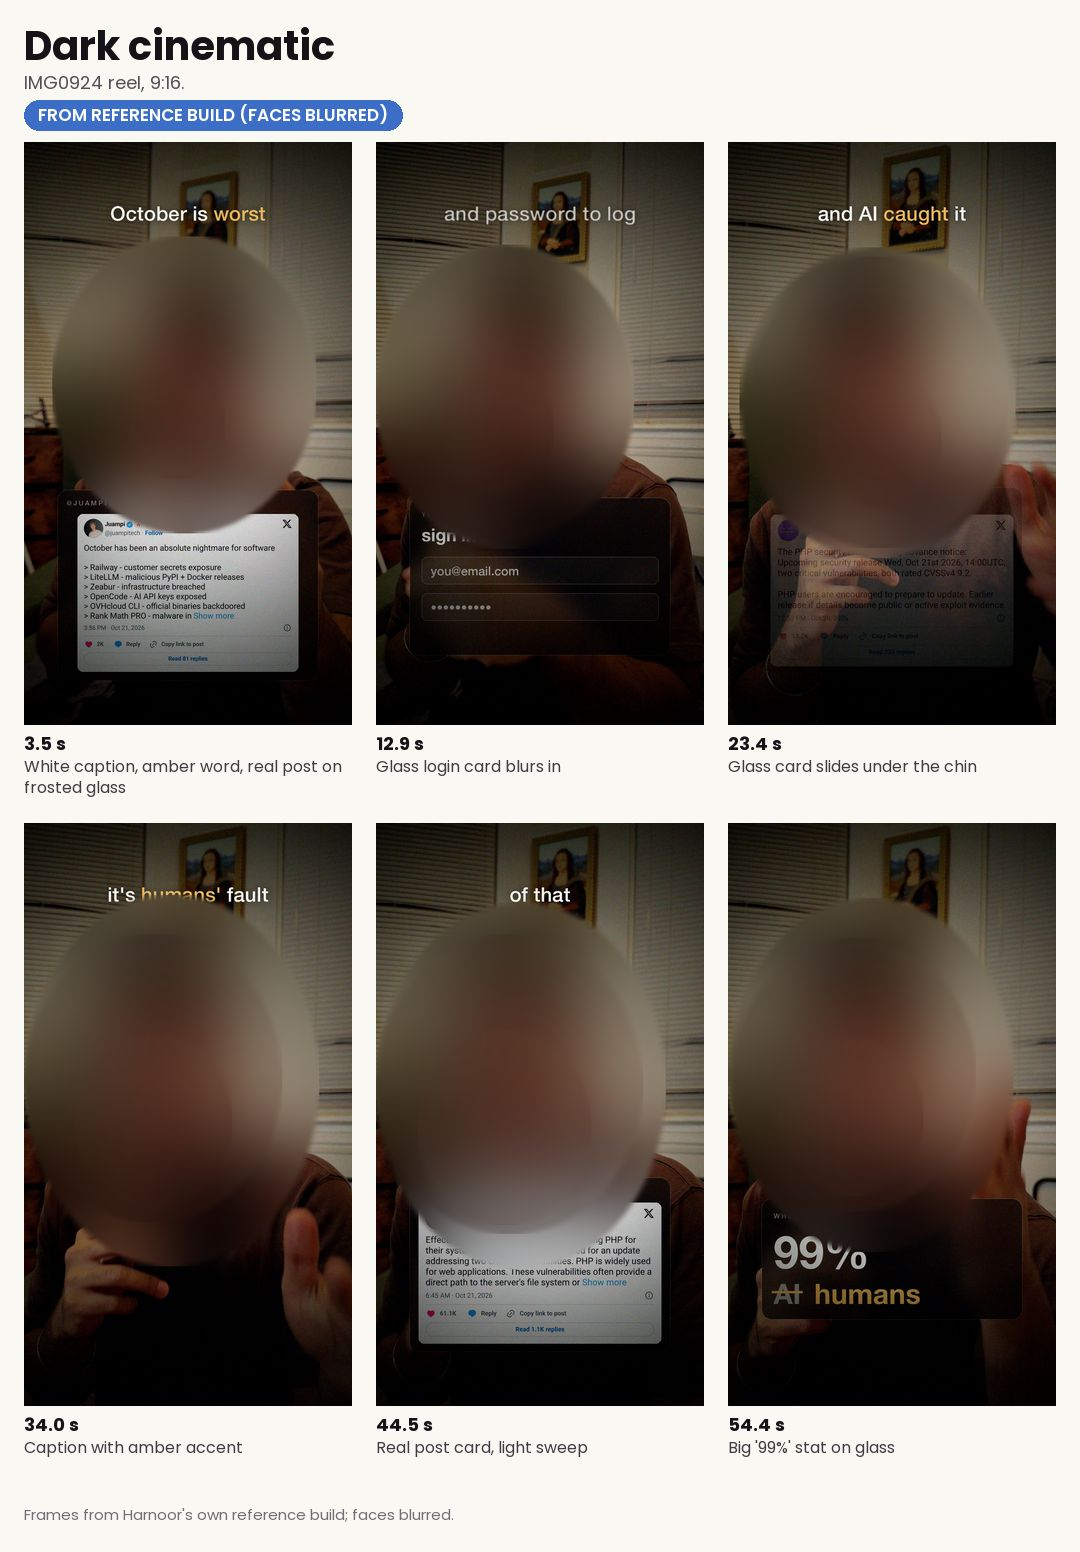
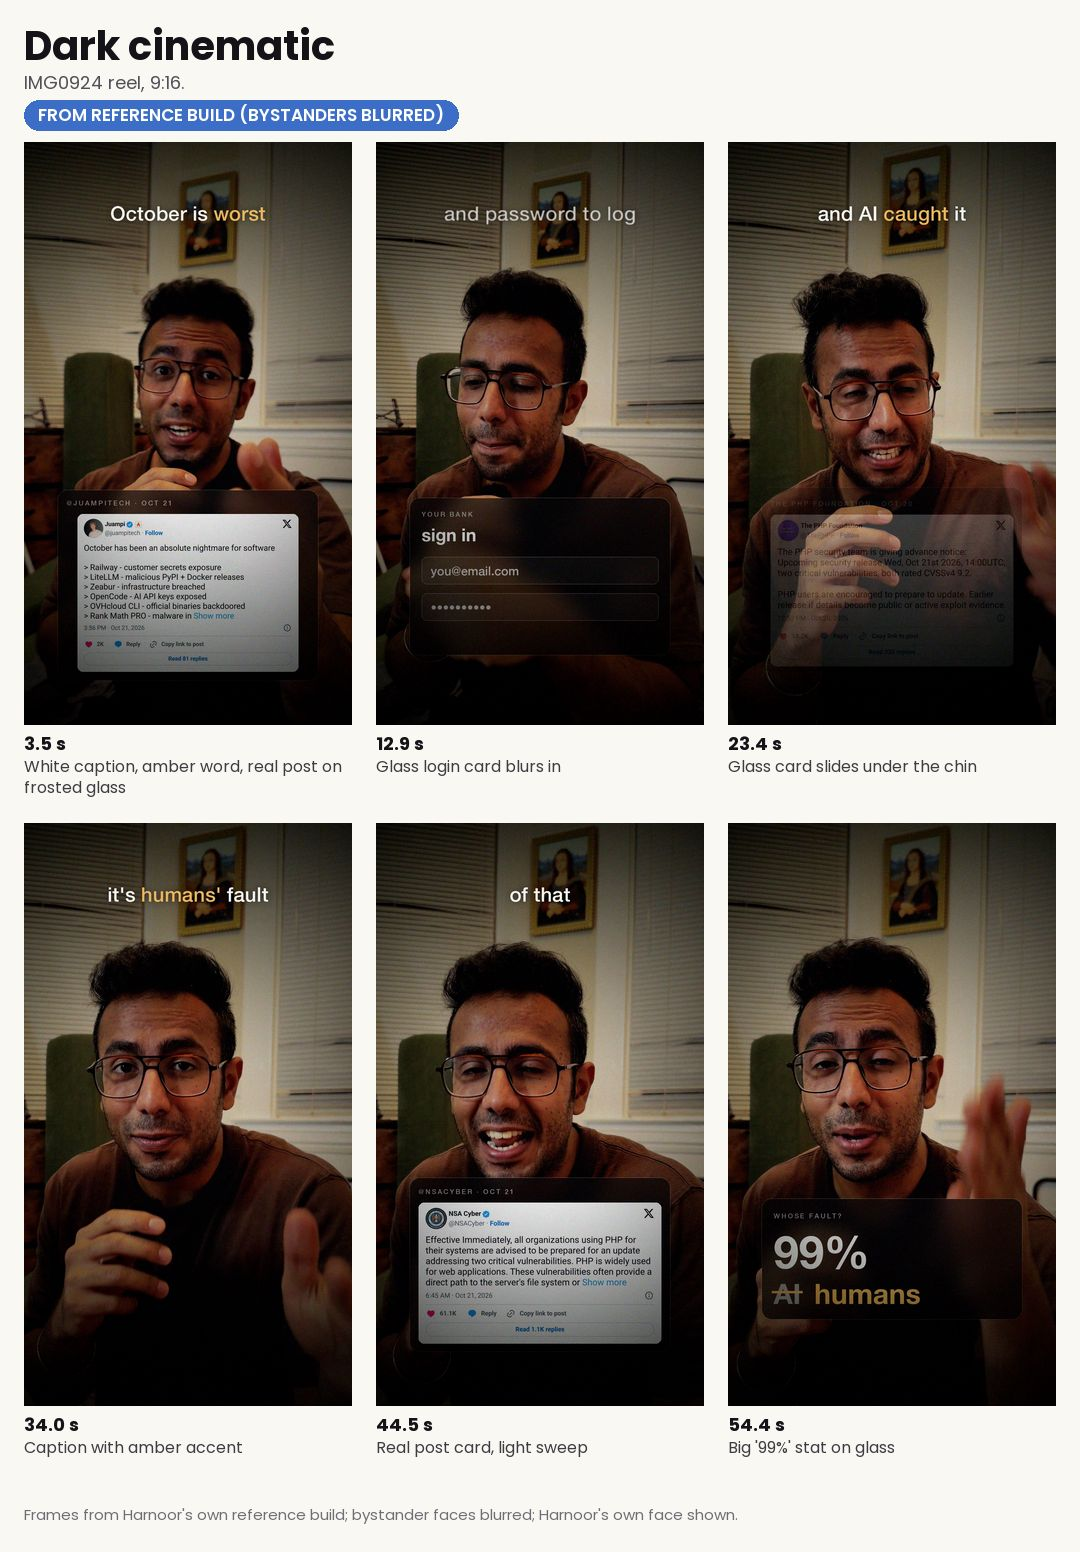
Show Harnoor's own face in storyboards; keep bystanders blurred
Re-rendered the 18 storyboards built from his footage and sample
stills. His on-camera face is no longer blurred. Guests, bystanders and
people in screenshots stay blurred:
- potluck guests and the street crowd on golden-vlog
- the podcast guest on night-desk
- the Google researchers on editorial
- the Nasdaq photo and two background pedestrians on sky-blue-split
Badges now read "BYSTANDERS BLURRED". Krishna Rao stays blurred in the
Nasdaq photo because his face couldn't be confirmed from a credited
source.

diff --git a/README.md b/README.md
@@ -35,7 +35,7 @@ video-delivery checks.
 
 ## Style picker
 
-Every style as a 6-panel storyboard, so I can pick before an edit. Click a thumbnail for the full sheet, which has timestamps and a note per panel. Repo styles use frames from my own reference builds or the sample stills, with faces blurred. The outside styles share one sample script, "how a chip is made" (20 s), wherever the tool could render it locally. Each sheet's badge says whether it is a real render, from a reference build, or a mock. **Example videos for each style are coming next.** All sheets are in [styles/storyboards/](styles/storyboards/).
+Every style as a 6-panel storyboard, so I can pick before an edit. Click a thumbnail for the full sheet, which has timestamps and a note per panel. Repo styles use frames from my own reference builds or the sample stills. My own face is shown; bystanders and guests are blurred. The outside styles share one sample script, "how a chip is made" (20 s), wherever the tool could render it locally. Each sheet's badge says whether it is a real render, from a reference build, or a mock. **Example videos for each style are coming next.** All sheets are in [styles/storyboards/](styles/storyboards/).
 
 ### Talking-head shorts (9:16)
 
